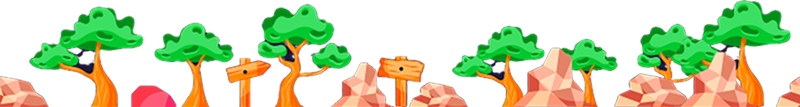
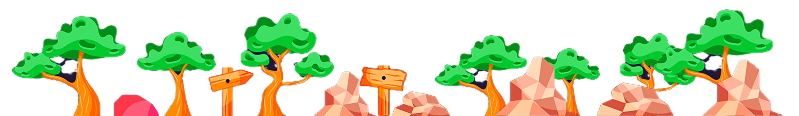
background trees bug fixes

diff --git a/main.py b/main.py
@@ -54,10 +54,9 @@ ground_surface_2_rect = ground_surface_2.get_rect(topleft=(800, ground_2_level))
 
 # Trees — two pieces, same speed as ground, bottom anchored to ground level
 background_trees_surf_1 = pygame.image.load('graphics/background_trees_1.png').convert_alpha()
-background_trees_rect_1 = background_trees_surf_1.get_rect(bottomleft=(0, ground_1_level))
+background_trees_rect_1 = background_trees_surf_1.get_rect(bottomleft=(0, ground_1_level + 10))
 background_trees_surf_2 = pygame.image.load('graphics/background_trees_2.png').convert_alpha()
-background_trees_rect_2 = background_trees_surf_2.get_rect(bottomleft=(800, ground_2_level))
-
+background_trees_rect_2 = background_trees_surf_2.get_rect(bottomleft=(800, ground_2_level + 10))
 # Both trees and ground move at the same speed
 ground_surface_speed = 5
 background_speed = 5
@@ -73,15 +72,17 @@ def ground_movement(current_score):
         ground_surface_1_rect.left = ground_surface_2_rect.right
         ground_1_level = random.choice(ground_levels)
         ground_surface_1_rect.top = ground_1_level
+        background_trees_rect_1.left = ground_surface_1_rect.left
         # Tree y updates at the same moment ground changes — fixes floating tree bug
-        background_trees_rect_1.bottom = ground_1_level
+        background_trees_rect_1.bottom = ground_1_level + 10
 
     if ground_surface_2_rect.right < 0:
         ground_surface_2_rect.left = ground_surface_1_rect.right
         ground_2_level = random.choice(ground_levels)
         ground_surface_2_rect.top = ground_2_level
+        background_trees_rect_2.left = ground_surface_2_rect.left
         # Tree y updates at the same moment ground changes — fixes floating tree bug
-        background_trees_rect_2.bottom = ground_2_level
+        background_trees_rect_2.bottom = ground_2_level + 10
 
     # Draw trees before ground so ground renders on top
     screen.blit(background_trees_surf_1, background_trees_rect_1)
@@ -211,8 +212,8 @@ def reset_game():
     ground_2_level = ground_low
     ground_surface_1_rect.topleft = (0, ground_low)
     ground_surface_2_rect.topleft = (800, ground_low)
-    background_trees_rect_1.bottomleft = (0, ground_low)
-    background_trees_rect_2.bottomleft = (800, ground_low)
+    background_trees_rect_1.bottomleft = (0, ground_low + 10)
+    background_trees_rect_2.bottomleft = (800, ground_low + 10)
     player_rectangle.midbottom = (80, ground_low)
     player_gravity = 0
     is_moving = False
